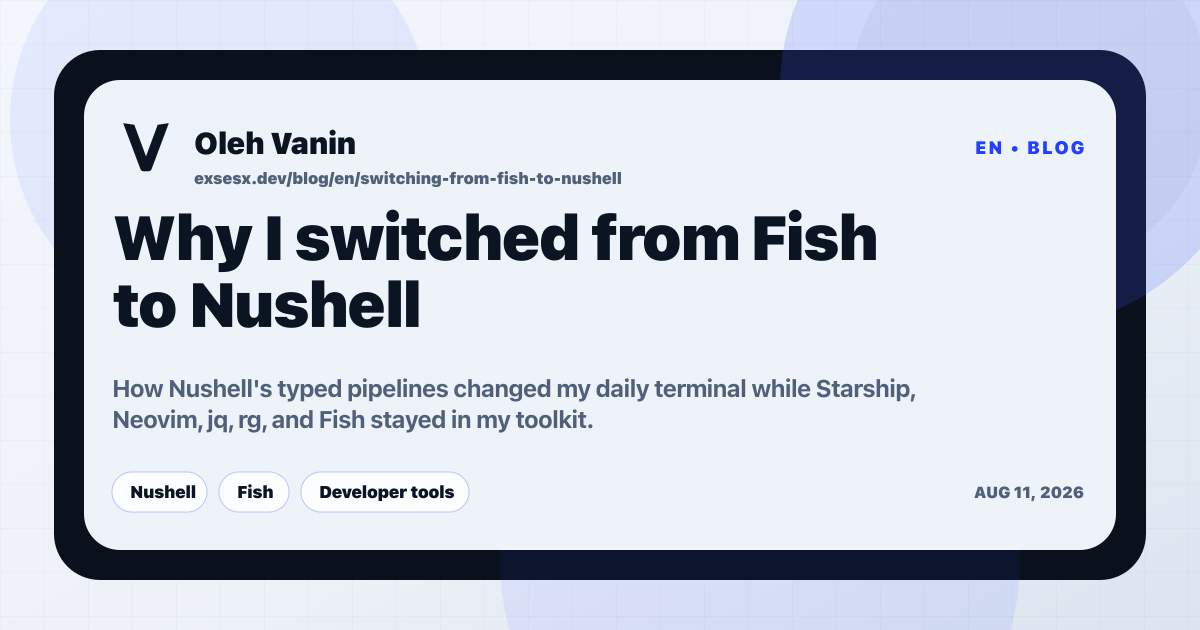
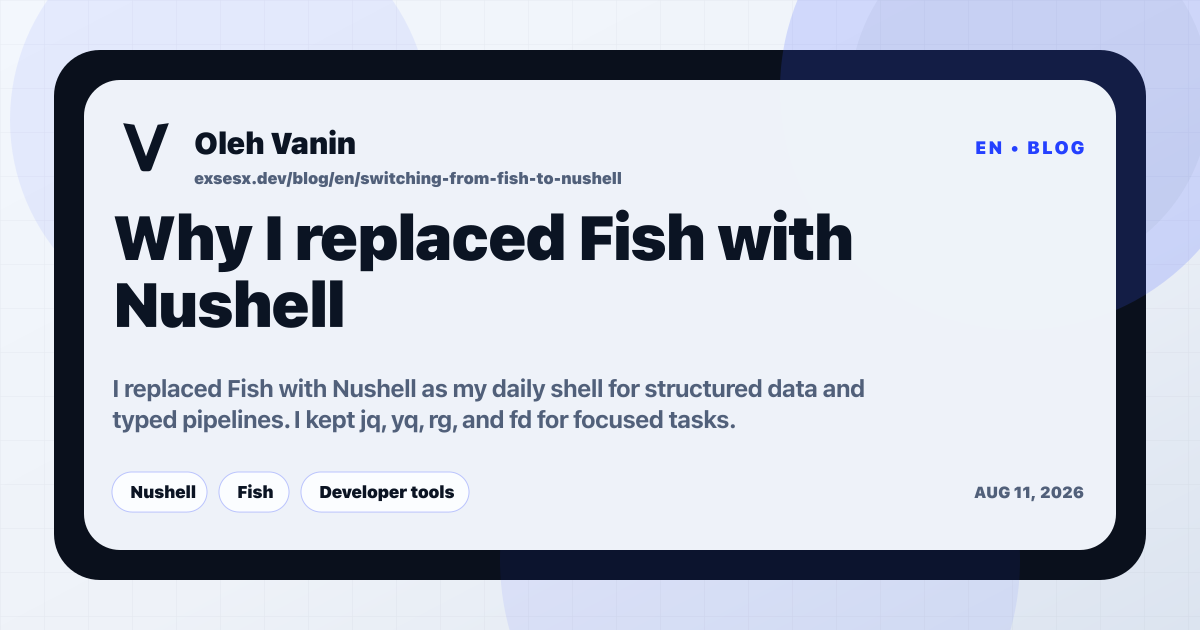
docs: refine Nushell article

Changed region(s): [[0.0925, 0.3317, 0.74, 0.5429], [0.0925, 0.6032, 0.7708, 0.6937]]

diff --git a/src/content/blog/switching-from-fish-to-nushell/post.ts b/src/content/blog/switching-from-fish-to-nushell/post.ts
@@ -5,30 +5,30 @@ export default defineBlogPost({
   tags: ["Nushell", "Fish", "Developer tools"],
   editions: {
     en: {
-      title: "Why I switched from Fish to Nushell",
-      seoTitle: "Why I switched from Fish to Nushell for structured data",
+      title: "Why I replaced Fish with Nushell",
+      seoTitle: "Why I replaced Fish with Nushell for structured data",
       description:
-        "How Nushell's typed pipelines changed my daily terminal while Starship, Neovim, jq, rg, and Fish stayed in my toolkit.",
+        "I replaced Fish with Nushell as my daily shell for structured data and typed pipelines. I kept jq, yq, rg, and fd for focused tasks.",
       publishedAt: "2026-08-11T17:13:21+02:00",
       status: "published",
       sourcePath: "src/content/blog/switching-from-fish-to-nushell/en.mdx",
       socialImage: {
         path: "/images/og/blog/switching-from-fish-to-nushell-en.png",
-        alt: "Article by Oleh Vanin about switching from Fish to Nushell",
+        alt: "Article by Oleh Vanin about replacing Fish with Nushell",
       },
       load: () => import("./en.mdx"),
     },
     uk: {
-      title: "Чому я перейшов із Fish на Nushell",
-      seoTitle: "Чому я перейшов із Fish на Nushell заради структурованих даних",
+      title: "Чому я замінив Fish на Nushell",
+      seoTitle: "Чому я замінив Fish на Nushell заради структурованих даних",
       description:
-        "Як типізовані конвеєри Nushell змінили мою роботу в терміналі, а Starship, Neovim, jq, rg і Fish залишилися в моєму наборі інструментів.",
+        "Я замінив Fish на Nushell як щоденну оболонку заради структурованих даних і типізованих конвеєрів. Для окремих завдань залишив jq, yq, rg і fd.",
       publishedAt: "2026-08-11T17:13:21+02:00",
       status: "published",
       sourcePath: "src/content/blog/switching-from-fish-to-nushell/uk.mdx",
       socialImage: {
         path: "/images/og/blog/switching-from-fish-to-nushell-uk.png",
-        alt: "Стаття Олега Ваніна про перехід із Fish на Nushell",
+        alt: "Стаття Олега Ваніна про заміну Fish на Nushell",
       },
       load: () => import("./uk.mdx"),
     },

diff --git a/src/content/blog/manifest.test.ts b/src/content/blog/manifest.test.ts
@@ -8,10 +8,10 @@ describe("Blog manifest", () => {
         locale: "en",
         slug: "switching-from-fish-to-nushell",
         status: "published",
-        title: "Why I switched from Fish to Nushell",
-        seoTitle: "Why I switched from Fish to Nushell for structured data",
+        title: "Why I replaced Fish with Nushell",
+        seoTitle: "Why I replaced Fish with Nushell for structured data",
         description:
-          "How Nushell's typed pipelines changed my daily terminal while Starship, Neovim, jq, rg, and Fish stayed in my toolkit.",
+          "I replaced Fish with Nushell as my daily shell for structured data and typed pipelines. I kept jq, yq, rg, and fd for focused tasks.",
       }),
       expect.objectContaining({
         locale: "en",
@@ -55,10 +55,10 @@ describe("Blog manifest", () => {
         locale: "uk",
         slug: "switching-from-fish-to-nushell",
         status: "published",
-        title: "Чому я перейшов із Fish на Nushell",
-        seoTitle: "Чому я перейшов із Fish на Nushell заради структурованих даних",
+        title: "Чому я замінив Fish на Nushell",
+        seoTitle: "Чому я замінив Fish на Nushell заради структурованих даних",
         description:
-          "Як типізовані конвеєри Nushell змінили мою роботу в терміналі, а Starship, Neovim, jq, rg і Fish залишилися в моєму наборі інструментів.",
+          "Я замінив Fish на Nushell як щоденну оболонку заради структурованих даних і типізованих конвеєрів. Для окремих завдань залишив jq, yq, rg і fd.",
       }),
       expect.objectContaining({
         locale: "uk",

diff --git a/tests/e2e/platform-ui.spec.ts b/tests/e2e/platform-ui.spec.ts
@@ -279,10 +279,10 @@ if (!("Bun" in globalThis)) {
       await expect(
         page.getByRole("heading", {
           level: 1,
-          name: "Why I switched from Fish to Nushell",
+          name: "Why I replaced Fish with Nushell",
         }),
       ).toBeVisible();
-      await expect(page).toHaveTitle("Oleh Vanin - Why I switched from Fish to Nushell for structured data");
+      await expect(page).toHaveTitle("Oleh Vanin - Why I replaced Fish with Nushell for structured data");
       await expectPageToFitViewport(page);
     });
 

diff --git a/src/app/llms.txt/route.test.ts b/src/app/llms.txt/route.test.ts
@@ -8,7 +8,7 @@ describe("llms.txt", () => {
     expect(body).toContain("## Blog");
     expect(body).toContain("[Blog](https://exsesx.dev/blog/en)");
     expect(body).toContain(
-      "[Why I switched from Fish to Nushell](https://exsesx.dev/blog/en/switching-from-fish-to-nushell)",
+      "[Why I replaced Fish with Nushell](https://exsesx.dev/blog/en/switching-from-fish-to-nushell)",
     );
     expect(body).toContain(
       "[Two wallpapers brought me back to Light Mode](https://exsesx.dev/blog/en/umbra-light-dark-wallpapers)",
